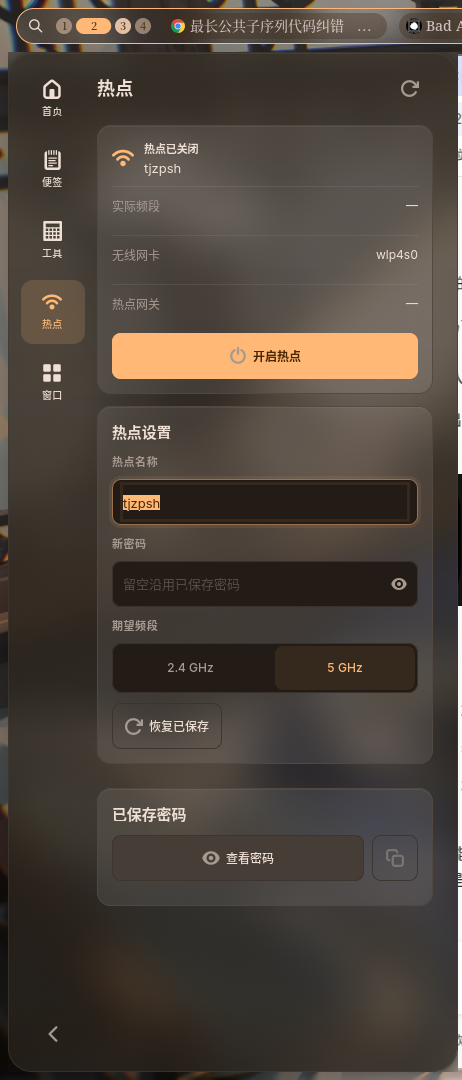
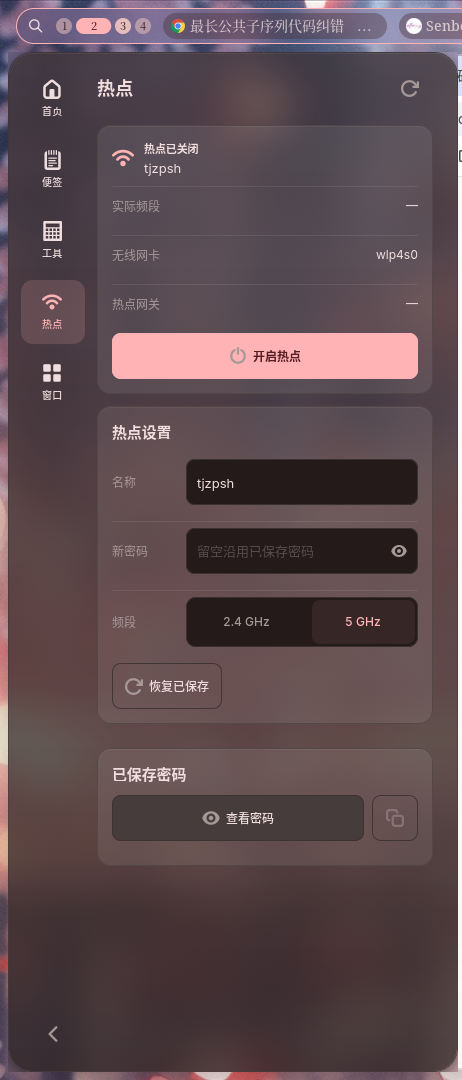
polish(tide-sidebar): 热点设置改两列行 + 亮壁纸对比度 + 空状态
- 热点设置从“标题在上、控件在下”的手机表单，改成 macOS 设置的
  「标签在左（64px 固定列）、控件在右、行间发丝线」；名称/新密码/频段三行。
- 亮色壁纸对比度：浅色调色板整体不透明度 +0.12（原 +0.08）、次要文字
  加深（fg_dim 40%）、分隔线加深到 14%、分组板提到 88% 白；暗色不变。
- 窗口空状态不再是“卡片套卡片”，改成列表板内居中的图标 + 文案。
- 预览图：热点页按新表单重拍。

内存实测（测量驱动，本轮不做优化）：裸 GJS + GTK4 空窗口 RSS 182 MB；
侧栏进程 RSS 214 MB，但 Pss 93 MB、Private_Dirty 52 MB——大头是 GTK/GL
共享页，真正私有的只有 52 MB。换 cairo 渲染器能省共享页但会把切页掉到
48–72fps，不划算，故不动。

diff --git a/payload/home/noctalia-plugins/tide-sidebar/native/views/system.js b/payload/home/noctalia-plugins/tide-sidebar/native/views/system.js
@@ -90,16 +90,24 @@ export function createHotspot(ctx) {
 
     const form = ui.card(['hotspot-card', 'rise', 'rise-1']);
     form.append(ui.label('热点设置', ['section-title']));
-    form.append(ui.label('热点名称', ['field-label']));
+    // macOS settings grammar: label on the left, control on the right, one
+    // hairline between rows. The stacked form read like a phone dialog.
+    const formRow = (text, control, first = false) => {
+        const row = ui.box(Gtk.Orientation.HORIZONTAL, 10, ['form-row']);
+        if (!first) row.add_css_class('mac-sep');
+        const label = ui.label(text, ['form-row-label']);
+        label.set_size_request(64, -1);
+        control.set_hexpand(true);
+        row.append(label); row.append(control);
+        return row;
+    };
     const ssid = ui.classes(new Gtk.Entry({hexpand: true, placeholder_text: '热点名称'}), ['field-muted']);
     ssid.set_tooltip_text('热点名称，最多 32 个 UTF-8 字节');
-    form.append(ssid);
-    form.append(ui.label('新密码', ['field-label']));
+    form.append(formRow('名称', ssid, true));
     const password = ui.classes(new Gtk.PasswordEntry({hexpand: true, show_peek_icon: true,
         placeholder_text: '留空沿用已保存密码'}), ['field-muted']);
     password.set_tooltip_text('新密码只留在本页，离开后清除');
-    form.append(password);
-    form.append(ui.label('期望频段', ['field-label']));
+    form.append(formRow('新密码', password));
     const bands = ui.box('horizontal', 8, ['segmented']);
     const band24 = ui.classes(new Gtk.ToggleButton({label: '2.4 GHz', hexpand: true}), ['glass-button']);
     const band5 = ui.classes(new Gtk.ToggleButton({label: '5 GHz', hexpand: true}), ['glass-button']);
@@ -107,7 +115,8 @@ export function createHotspot(ctx) {
     band24.set_active(true);
     band24.set_tooltip_text('2.4 GHz · 兼容性更好');
     band5.set_tooltip_text('5 GHz · 启动失败时脚本可能回落到 2.4 GHz');
-    bands.append(band24); bands.append(band5); form.append(bands);
+    bands.append(band24); bands.append(band5);
+    form.append(formRow('频段', bands));
     const pending = paragraph(ui, '修改后需应用到正在运行的热点。', ['muted']);
     form.append(pending);
     const formActions = ui.box('horizontal', 8);
@@ -535,10 +544,17 @@ export function createWindows(ctx) {
         return targets.length;
     }
     const list = ui.box('vertical', 8); content.append(list);
-    const empty = ui.card(['window-card']);
-    empty.append(ui.icon('apps', 32));
-    const emptyTitle = ui.label('正在获取窗口', ['section-title']); empty.append(emptyTitle);
-    const emptyText = paragraph(ui, '窗口列表会在状态更新后显示。'); empty.append(emptyText);
+    // Empty state sits inside the list plate (no card-inside-a-card).
+    const empty = ui.box('vertical', 6, ['empty-state']);
+    const emptyIcon = ui.icon('view-grid-symbolic', 28);
+    emptyIcon.set_halign(Gtk.Align.CENTER);
+    empty.append(emptyIcon);
+    const emptyTitle = ui.label('正在获取窗口', ['section-title']);
+    emptyTitle.set_xalign(0.5);
+    empty.append(emptyTitle);
+    const emptyText = paragraph(ui, '窗口列表会在状态更新后显示。');
+    emptyText.set_xalign(0.5);
+    empty.append(emptyText);
     content.append(empty); page.append(content); widget.append(scrolled(page));
     function cancelClose() { pendingId = null; confirmation.set_reveal_child(false); sensitive(close, false); }
     function openClose(id) {

diff --git a/payload/home/noctalia-plugins/tide-sidebar/native/palette.js b/payload/home/noctalia-plugins/tide-sidebar/native/palette.js
@@ -135,7 +135,7 @@ export function buildTokens(defines = {}) {
     // other compositor we fall back to nearly opaque panels instead of showing
     // a washed-out wallpaper through a "glass" that is not frosted.
     const blurred = Boolean(GLib.getenv('NIRI_SOCKET'));
-    const body = dark ? 0 : 0.08;           // light palettes need more substance
+    const body = dark ? 0 : 0.12;           // light palettes need more substance
     // The frame is smoked glass: a darker base than the cards so the panels
     // read as frosted sheets laid on top, while 18% of the blurred wallpaper
     // still tints it.
@@ -153,8 +153,8 @@ export function buildTokens(defines = {}) {
         t_surf2: hex(surf2),
         t_popover: hex(popover),
         t_fg: hex(fg),
-        t_fg_dim: hex(mix(fg, bg, dark ? 0.34 : 0.30)),
-        t_fg_faint: hex(mix(fg, bg, dark ? 0.52 : 0.46)),
+        t_fg_dim: hex(mix(fg, bg, dark ? 0.34 : 0.40)),
+        t_fg_faint: hex(mix(fg, bg, dark ? 0.52 : 0.56)),
         t_border: rgba(line, 0.9),
         t_border_strong: rgba(lineStrong, 0.95),
         t_accent: hex(accent),
@@ -181,10 +181,10 @@ export function buildTokens(defines = {}) {
         t_mod_tools: dark ? '#4C86E8' : '#2F6FD0',
         t_mod_windows: dark ? '#8C6BE8' : '#6D4DD0',
         // Group plates sit one step above the glass; rows only get hairlines.
-        t_group: dark ? rgba({r: 255, g: 255, b: 255}, 0.085) : rgba({r: 255, g: 255, b: 255}, 0.72),
+        t_group: dark ? rgba({r: 255, g: 255, b: 255}, 0.085) : rgba({r: 255, g: 255, b: 255}, 0.88),
         t_row_hover: dark ? rgba({r: 255, g: 255, b: 255}, 0.04) : rgba({r: 0, g: 0, b: 0}, 0.035),
         t_row_active: dark ? rgba({r: 255, g: 255, b: 255}, 0.085) : rgba({r: 0, g: 0, b: 0}, 0.07),
-        t_separator: dark ? rgba({r: 255, g: 255, b: 255}, 0.075) : rgba({r: 0, g: 0, b: 0}, 0.08),
+        t_separator: dark ? rgba({r: 255, g: 255, b: 255}, 0.075) : rgba({r: 0, g: 0, b: 0}, 0.14),
         // Static data ink: neutral on purpose, so the accent stays a state and
         // not a decoration. Peaks switch to @t_accent explicitly.
         t_data: data,

diff --git a/payload/home/noctalia-plugins/tide-sidebar/native/style.css b/payload/home/noctalia-plugins/tide-sidebar/native/style.css
@@ -512,6 +512,9 @@
 /* The card-wide colour rule above outranks `.danger`, so restate it here. */
 .tide-window .hotspot-card button.danger { color: @t_danger; border-color: @t_danger_soft; }
 .tide-window .hotspot-card button.danger:hover { background-color: @t_danger_soft; }
+.tide-window .form-row { padding: 6px 0; min-height: 40px; }
+.tide-window .form-row.mac-sep { border-top: 1px solid @t_separator; }
+.tide-window .form-row-label { font-size: 12px; color: @t_fg_dim; }
 .tide-window .status-row { min-height: 38px; transition: background-color 120ms ease-out; }
 .tide-window .status-row:hover { background-color: @t_row_hover; }
 .tide-window .status-row:active { background-color: @t_row_active; }
@@ -549,7 +552,8 @@
 .tide-window .window-card .muted { color: @t_fg_dim; }
 .tide-window .list-empty { padding: 12px 6px; }
 .tide-window .list-empty image { color: @t_fg_faint; }
-.tide-window .empty-state { padding: 20px 12px; }
+.tide-window .empty-state { padding: 26px 14px; }
+.tide-window .empty-state label { color: @t_fg_dim; }
 .tide-window .empty-state image { color: @t_fg_faint; }
 .tide-window .empty-title { font-size: 14px; font-weight: 600; color: @t_fg; }
 .tide-window .empty-state .caption { color: @t_fg_dim; }
